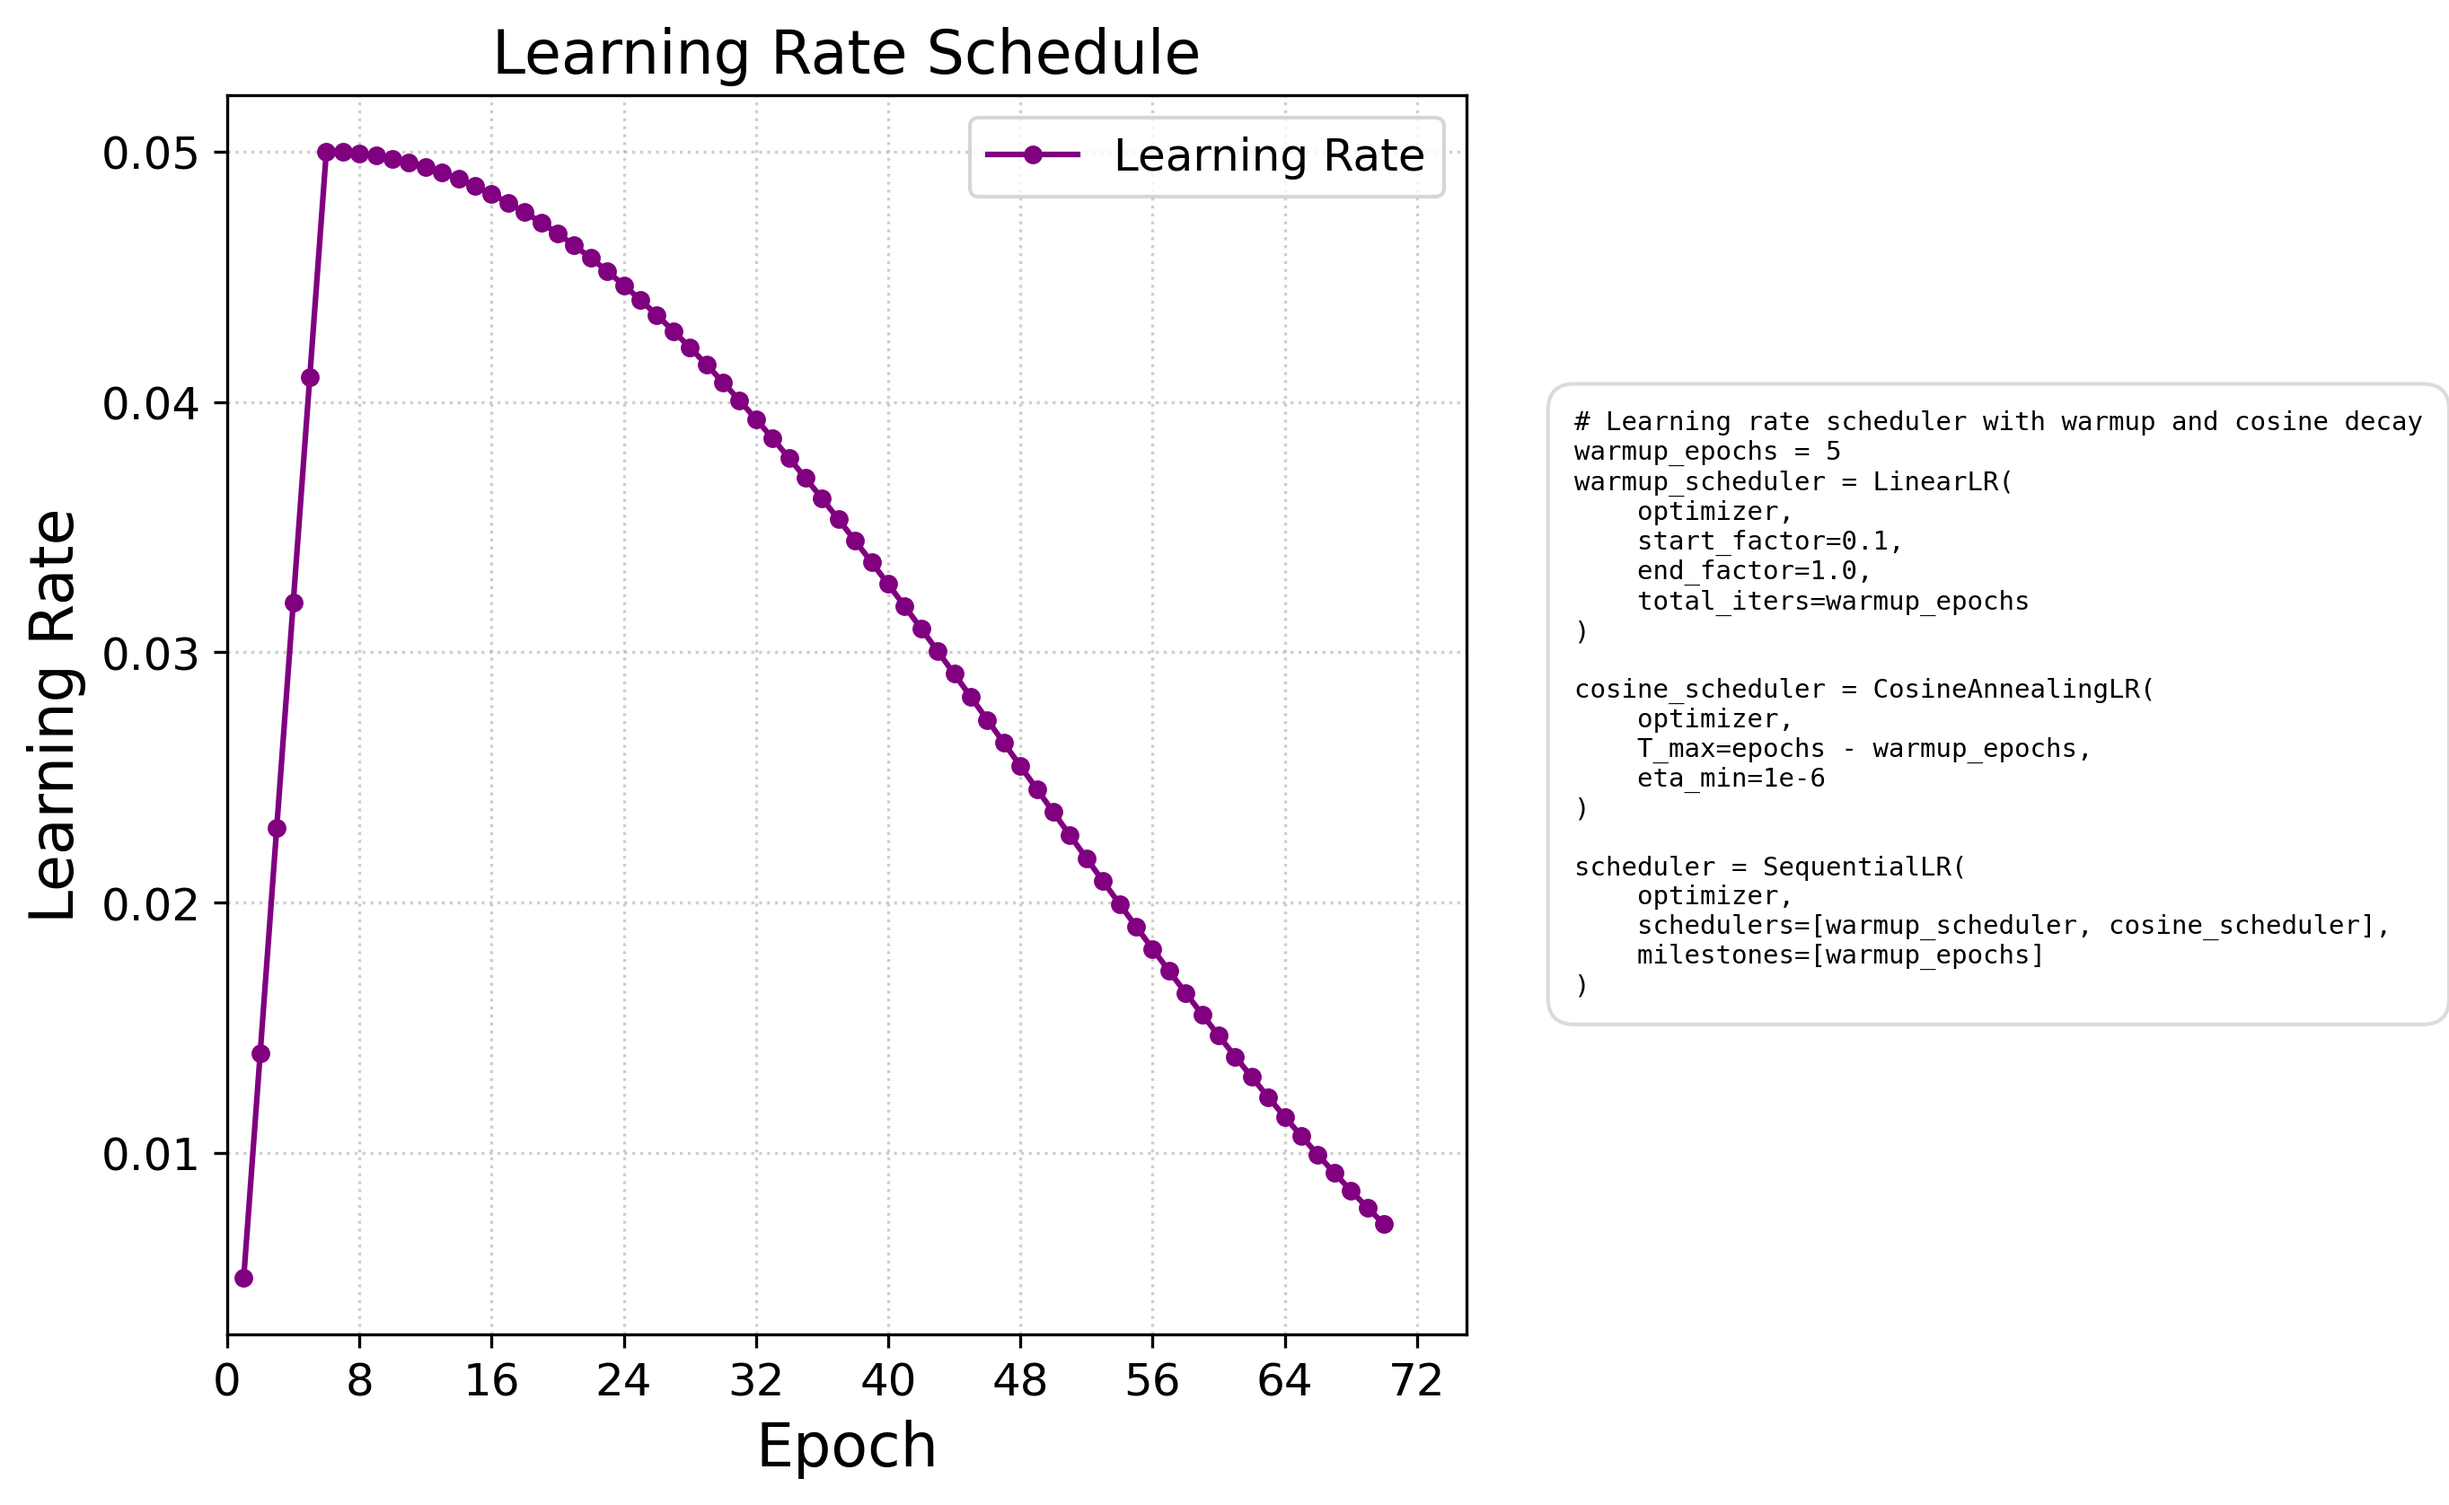
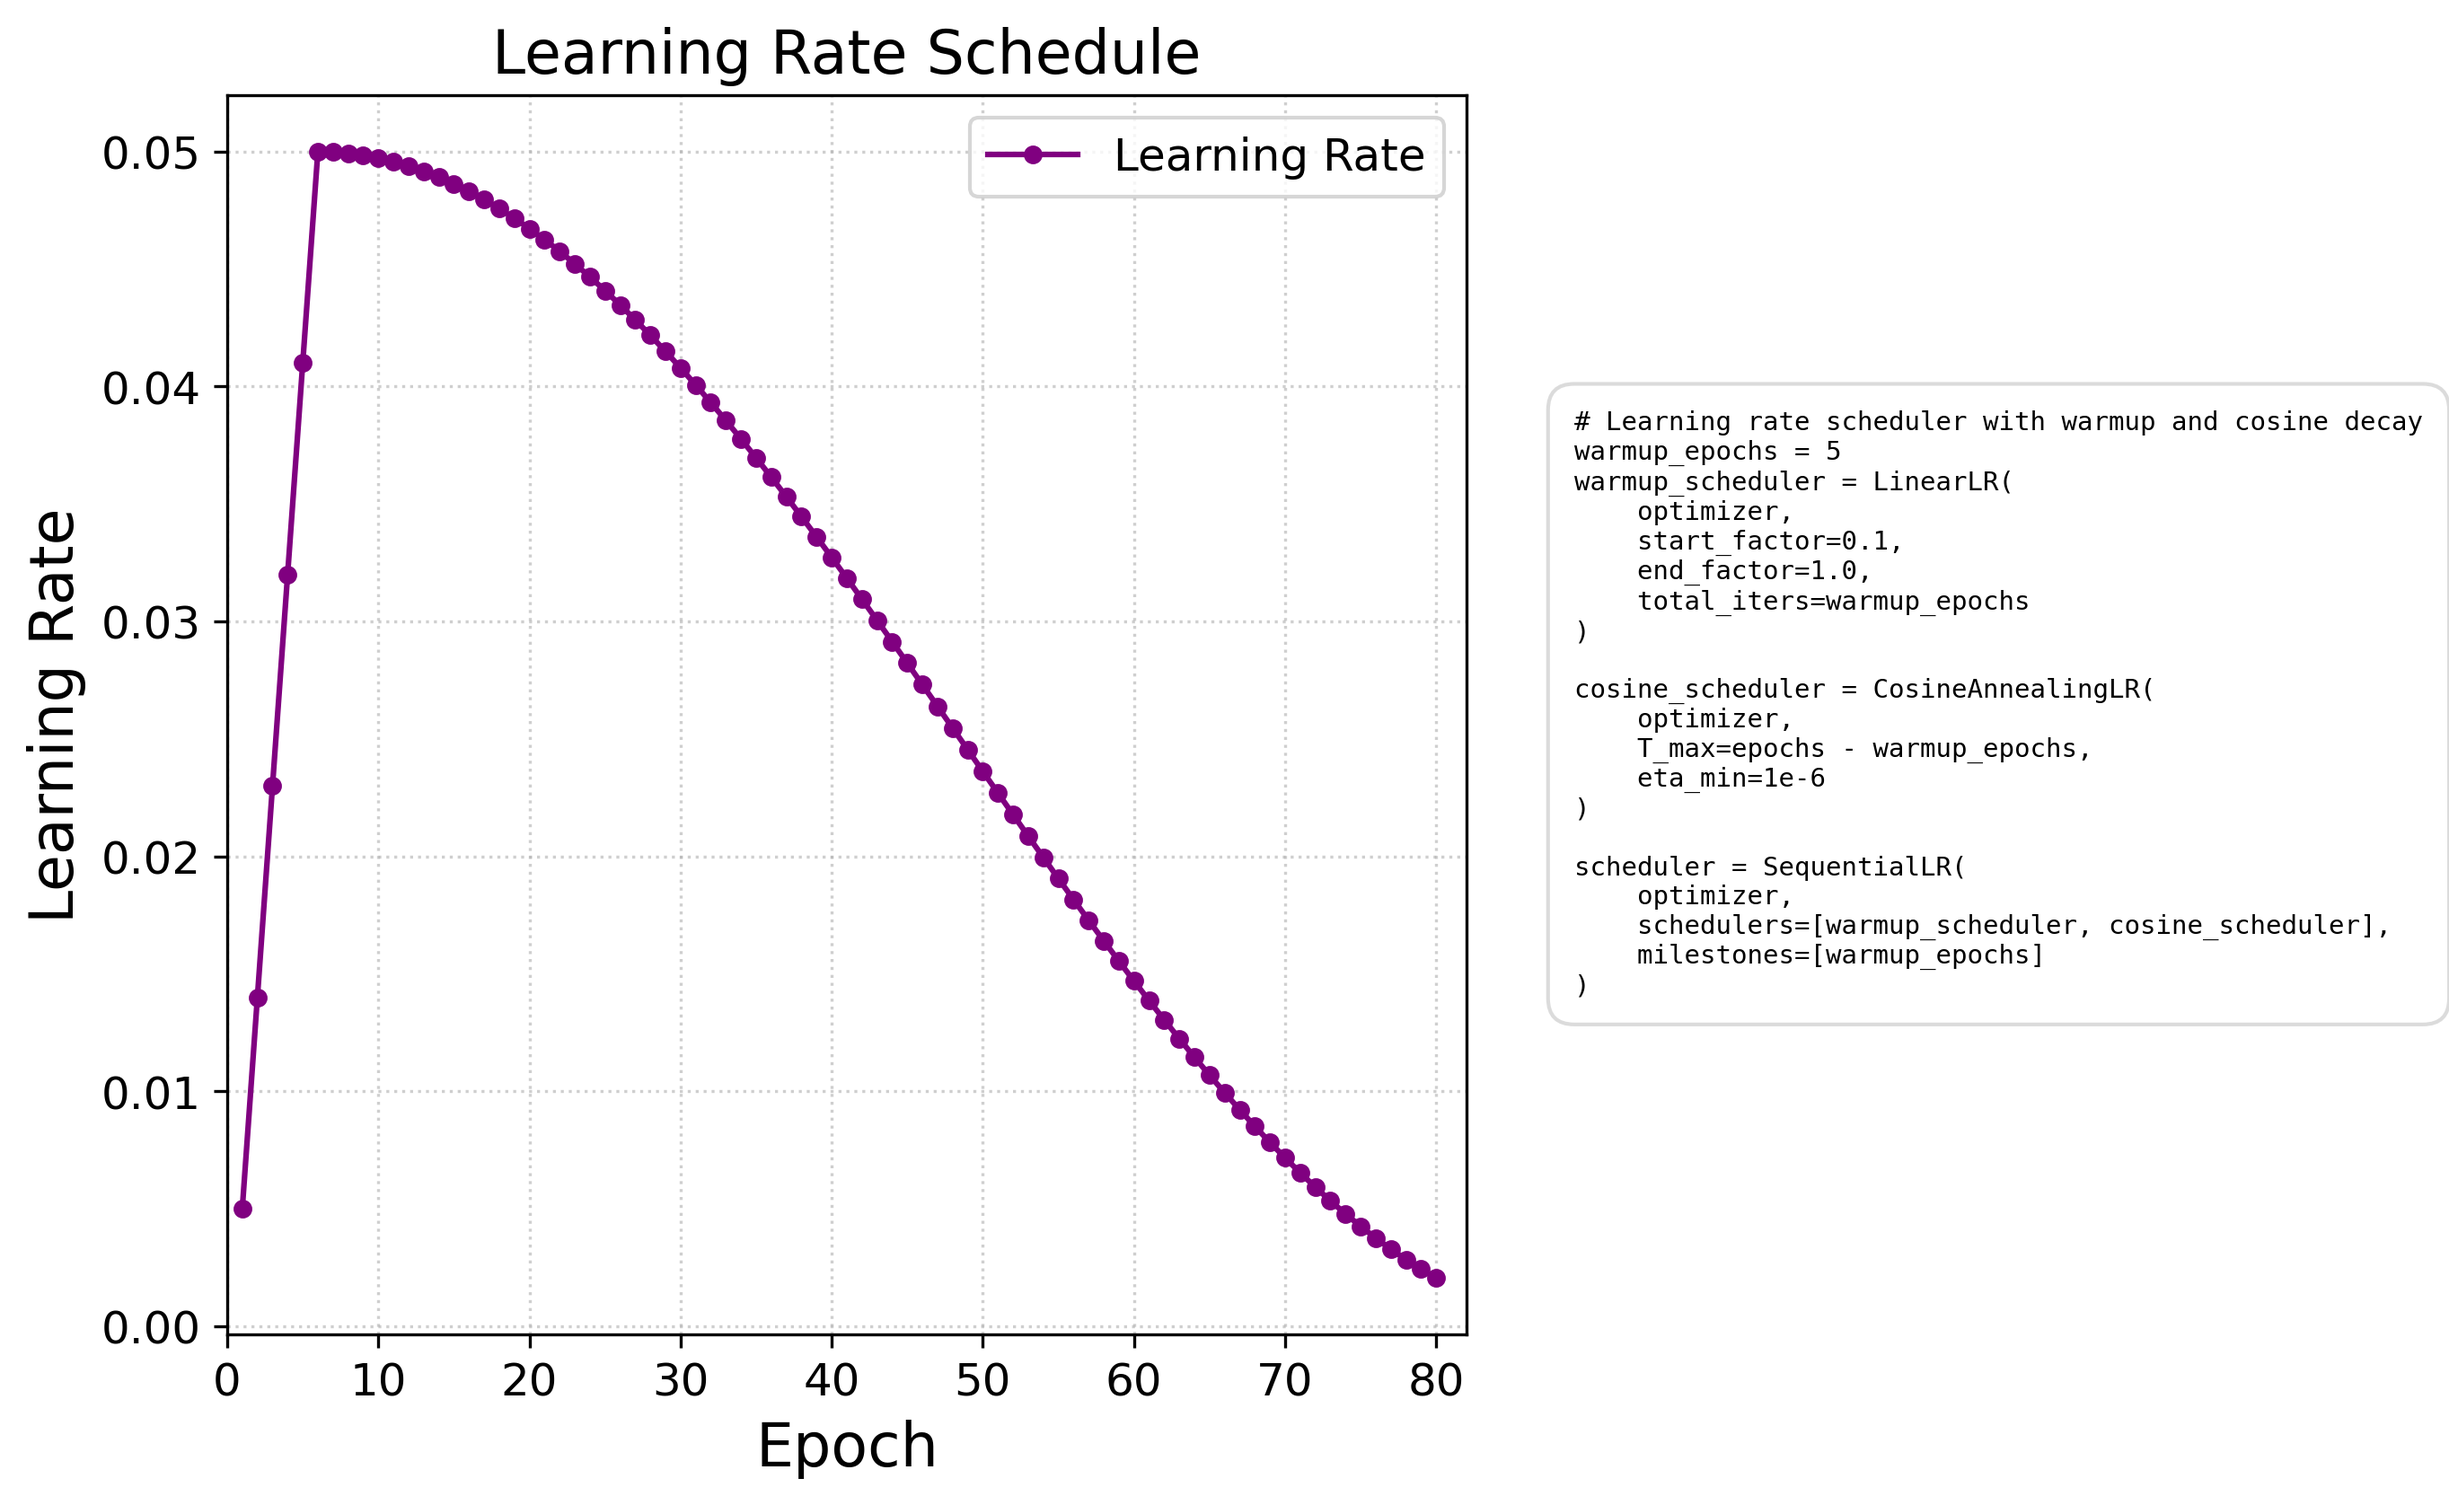
additional epoch data

diff --git a/plots/plot_metrics.py b/plots/plot_metrics.py
@@ -50,7 +50,7 @@ def load_and_plot_metrics(metrics_file):
     ax1.set_ylabel('Accuracy (%)')
     ax1.legend()
     ax1.grid(True, linestyle=':', alpha=0.6)
-    ax1.set_xlim(0, 75)
+    ax1.set_xlim(0, 82)
     ax1.set_ylim(0, 100)
     ax1.xaxis.set_major_locator(plt.MaxNLocator(integer=True))
     ax1.set_aspect(1.0/ax1.get_data_ratio(), adjustable='box')
@@ -63,7 +63,7 @@ def load_and_plot_metrics(metrics_file):
     ax2.set_ylabel('Loss')
     ax2.legend()
     ax2.grid(True, linestyle=':', alpha=0.6)
-    ax2.set_xlim(0, 75)
+    ax2.set_xlim(0, 82)
     ax2.xaxis.set_major_locator(plt.MaxNLocator(integer=True))
     ax2.set_aspect(1.0/ax2.get_data_ratio(), adjustable='box')
     
@@ -80,7 +80,7 @@ def load_and_plot_metrics(metrics_file):
     ax3.set_ylabel('Learning Rate')
     ax3.legend()
     ax3.grid(True, linestyle=':', alpha=0.6)
-    ax3.set_xlim(0, 75)
+    ax3.set_xlim(0, 82)
     ax3.xaxis.set_major_locator(plt.MaxNLocator(integer=True))
     ax3.set_aspect(1.0/ax3.get_data_ratio(), adjustable='box')
     

diff --git a/plots/parse_logs.py b/plots/parse_logs.py
@@ -61,7 +61,7 @@ def save_metrics(metrics, output_file):
 
 if __name__ == '__main__':
     # Example usage
-    log_file = '../output.log'
+    log_file = '../log_output.md'
     output_file = '../metrics.json'
     
     metrics = parse_log_file(log_file)

diff --git a/log_output.md b/log_output.md
@@ -628,4 +628,95 @@ Test set: Average loss: 1.1063, Acc@1: 72.124%, Acc@5: 90.970%
 
 
 GPU Memory: 0.44 GB (Max: 15.47 GB)
+
+Epoch: 71
+Learning rate: 0.006526
+Train Epoch: 71 Loss: 1.213 Acc@1 70.881 Acc@5 88.650: 100%|██████████| 5005/5005 [59:09<00:00,  1.41it/s]
+
+Test set: Average loss: 1.1130, Acc@1: 71.714%, Acc@5: 90.904%
+
+
+GPU Memory: 0.44 GB (Max: 15.47 GB)
+
+Epoch: 72
+Learning rate: 0.005916
+Train Epoch: 72 Loss: 1.188 Acc@1 71.438 Acc@5 88.902: 100%|██████████| 5005/5005 [59:10<00:00,  1.41it/s]
+
+Test set: Average loss: 1.0799, Acc@1: 72.718%, Acc@5: 91.400%
+
+
+GPU Memory: 0.44 GB (Max: 15.47 GB)
+
+Epoch: 73
+Learning rate: 0.005332
+Train Epoch: 73 Loss: 1.163 Acc@1 71.995 Acc@5 89.198: 100%|██████████| 5005/5005 [59:09<00:00,  1.41it/s]
+
+Test set: Average loss: 1.0546, Acc@1: 73.176%, Acc@5: 91.594%
+
+
+GPU Memory: 0.44 GB (Max: 15.47 GB)
+
+Epoch: 74
+Learning rate: 0.004775
+Train Epoch: 74 Loss: 1.142 Acc@1 72.485 Acc@5 89.464: 100%|██████████| 5005/5005 [59:09<00:00,  1.41it/s]
+
+Test set: Average loss: 1.0508, Acc@1: 73.396%, Acc@5: 91.704%
+
+
+GPU Memory: 0.44 GB (Max: 15.47 GB)
+
+Epoch: 75
+Learning rate: 0.004246
+Train Epoch: 75 Loss: 1.115 Acc@1 73.053 Acc@5 89.798: 100%|██████████| 5005/5005 [59:09<00:00,  1.41it/s]
+
+Test set: Average loss: 1.0437, Acc@1: 73.472%, Acc@5: 91.824%
+
+
+GPU Memory: 0.44 GB (Max: 15.47 GB)
+
+Epoch: 76
+Learning rate: 0.003745
+Train Epoch: 76 Loss: 1.089 Acc@1 73.660 Acc@5 90.077: 100%|██████████| 5005/5005 [59:09<00:00,  1.41it/s]
+
+Test set: Average loss: 1.0169, Acc@1: 74.284%, Acc@5: 92.148%
+
+
+GPU Memory: 0.44 GB (Max: 15.47 GB)
+
+Epoch: 77
+Learning rate: 0.003274
+Train Epoch: 77 Loss: 1.065 Acc@1 74.206 Acc@5 90.352: 100%|██████████| 5005/5005 [59:09<00:00,  1.41it/s]
+
+Test set: Average loss: 1.0096, Acc@1: 74.416%, Acc@5: 92.160%
+
+
+GPU Memory: 0.44 GB (Max: 15.47 GB)
+
+Epoch: 78
+Learning rate: 0.002832
+Train Epoch: 78 Loss: 1.041 Acc@1 74.802 Acc@5 90.620: 100%|██████████| 5005/5005 [59:09<00:00,  1.41it/s]
+
+Test set: Average loss: 1.0017, Acc@1: 74.600%, Acc@5: 92.334%
+
+
+GPU Memory: 0.44 GB (Max: 15.47 GB)
+
+Epoch: 79
+Learning rate: 0.002420
+Train Epoch: 79 Loss: 1.017 Acc@1 75.341 Acc@5 90.899: 100%|██████████| 5005/5005 [59:09<00:00,  1.41it/s]
+
+Test set: Average loss: 0.9884, Acc@1: 74.902%, Acc@5: 92.484%
+
+
+GPU Memory: 0.44 GB (Max: 15.47 GB)
+
+Epoch: 80
+Learning rate: 0.002039
+Train Epoch: 80 Loss: 0.992 Acc@1 75.935 Acc@5 91.191: 100%|██████████| 5005/5005 [59:10<00:00,  1.41it/s]
+
+Test set: Average loss: 0.9770, Acc@1: 75.212%, Acc@5: 92.668%
+
+
+GPU Memory: 0.44 GB (Max: 15.47 GB)
+
 ```

diff --git a/README.md b/README.md
@@ -2,7 +2,7 @@
 
 A PyTorch implementation of ResNet50 training on ImageNet, with support for single/multi-GPU training, mixed precision, and various optimizations.
 
-### [Link to HuggingFace Demo App](https://huggingface.co/spaces/dhairyashil/ImageNet1k)
+### [Link to HuggingFace Demo App](https://huggingface.co/spaces/dhairyashil/ImageNet1k) (Acc@1: 75.212%, Acc@5: 92.668% at epoch 80)
 
 ## Cloud Training
 
